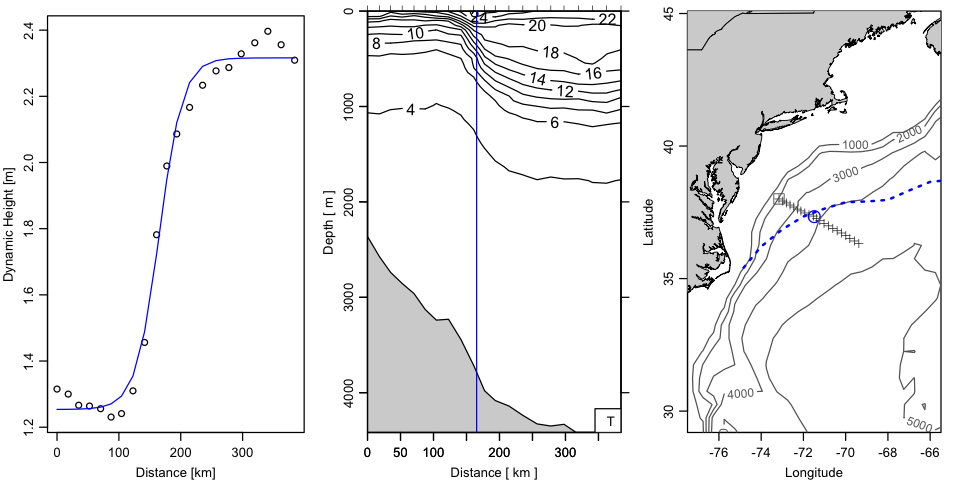
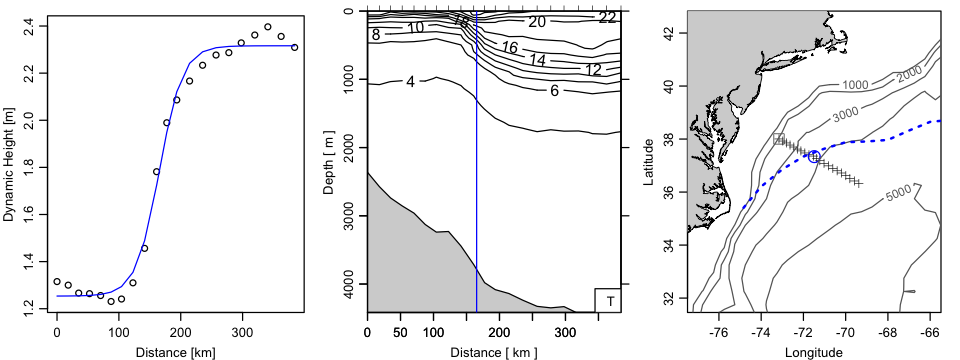
gs updated

diff --git a/_site/r/2014/06/22/gulf-stream-center.html b/_site/r/2014/06/22/gulf-stream-center.html
@@ -94,7 +94,7 @@
 
 <h1 id="introduction">Introduction</h1>
 
-<p>Definitions of Gulf Stream location sometimes centre on thermal signature, but it might make sense to work with dynamic height $\eta$ instead.  This is illustreated here, using a $\tanh$ model for $\eta=\eta(x)$, with $x$ the distance along the transect.  The idea is to select the halfway point in the $\tanh$ function, where the slope is maximum and where therefore the inferred geostrophic velocity peaks.</p>
+<p>Definitions of Gulf Stream location sometimes centre on thermal signature, but it might make sense to work with dynamic height <script type="math/tex">\eta</script> instead.  This is illustrated here, using a <script type="math/tex">\tanh</script> model for <script type="math/tex">\eta=\eta(x)</script>, with <script type="math/tex">x</script> the distance along the transect.  The idea is to select the halfway point in the <script type="math/tex">\tanh</script> function, where the slope is maximum and where therefore the inferred geostrophic velocity peaks.</p>
 
 <h1 id="methods-and-results">Methods and results</h1>
 
@@ -191,12 +191,23 @@ lines<span class="p">(</span>gs<span class="o">$</span>longitude<span class="p">
 
 <h1 id="exercises">Exercises</h1>
 
-<p>From the map, work out a scale factor for correcting geostrophic velocity from cross-section to along-stream, assuming the Drinkwater climatology to be relevant.</p>
+<p>From the map, work out a scale factor for correcting geostrophic velocity from cross-section to along-stream, assuming the Drinkwater (1994) climatology to be relevant.</p>
 
 <h1 id="resources">Resources</h1>
 
 <ul>
-  <li>Source code: <a href="/assets/2014-06-22-gulf-stream-center.R">2014-06-22-gulf-stream-center.R</a></li>
+  <li>
+    <p>Source code: <a href="/assets/2014-06-22-gulf-stream-center.R">2014-06-22-gulf-stream-center.R</a></p>
+  </li>
+  <li>
+    <p>K. F. Drinkwater, R. A Myers, R. G. Pettipas and T. L. Wright,</p>
+    <ol>
+      <li>Climatic data for the northwest Atlantic: the position of the
+     shelf/slope front and the northern boundary of the Gulf Stream between
+     50W and 75W, 1973-1992.  Canadian Data Report of Fisheries and Ocean
+     Sciences 125.  Department of Fisheries and Oceans, Canada. </li>
+    </ol>
+  </li>
 </ul>
 
 

diff --git a/_posts/2014-06-22-gulf-stream-center.md b/_posts/2014-06-22-gulf-stream-center.md
@@ -13,7 +13,7 @@ latex: true
 
 # Introduction
 
-Definitions of Gulf Stream location sometimes centre on thermal signature, but it might make sense to work with dynamic height $\eta$ instead.  This is illustreated here, using a $\tanh$ model for $\eta=\eta(x)$, with $x$ the distance along the transect.  The idea is to select the halfway point in the $\tanh$ function, where the slope is maximum and where therefore the inferred geostrophic velocity peaks.
+Definitions of Gulf Stream location sometimes centre on thermal signature, but it might make sense to work with dynamic height $$\eta$$ instead.  This is illustrated here, using a $$\tanh$$ model for $$\eta=\eta(x)$$, with $$x$$ the distance along the transect.  The idea is to select the halfway point in the $$\tanh$$ function, where the slope is maximum and where therefore the inferred geostrophic velocity peaks.
 
 # Methods and results
 
@@ -78,9 +78,15 @@ lines(gs$longitude, gs$latitude[,9], col='blue', lwd=2, lty='dotted')
 
 # Exercises
 
-From the map, work out a scale factor for correcting geostrophic velocity from cross-section to along-stream, assuming the Drinkwater climatology to be relevant.
+From the map, work out a scale factor for correcting geostrophic velocity from cross-section to along-stream, assuming the Drinkwater (1994) climatology to be relevant.
 
 # Resources
 
 * Source code: [2014-06-22-gulf-stream-center.R]({{ site.url }}/assets/2014-06-22-gulf-stream-center.R)
+
+* K. F. Drinkwater, R. A Myers, R. G. Pettipas and T. L. Wright,
+    1994.  Climatic data for the northwest Atlantic: the position of the
+       shelf/slope front and the northern boundary of the Gulf Stream between
+       50W and 75W, 1973-1992.  Canadian Data Report of Fisheries and Ocean
+       Sciences 125.  Department of Fisheries and Oceans, Canada. 
 
